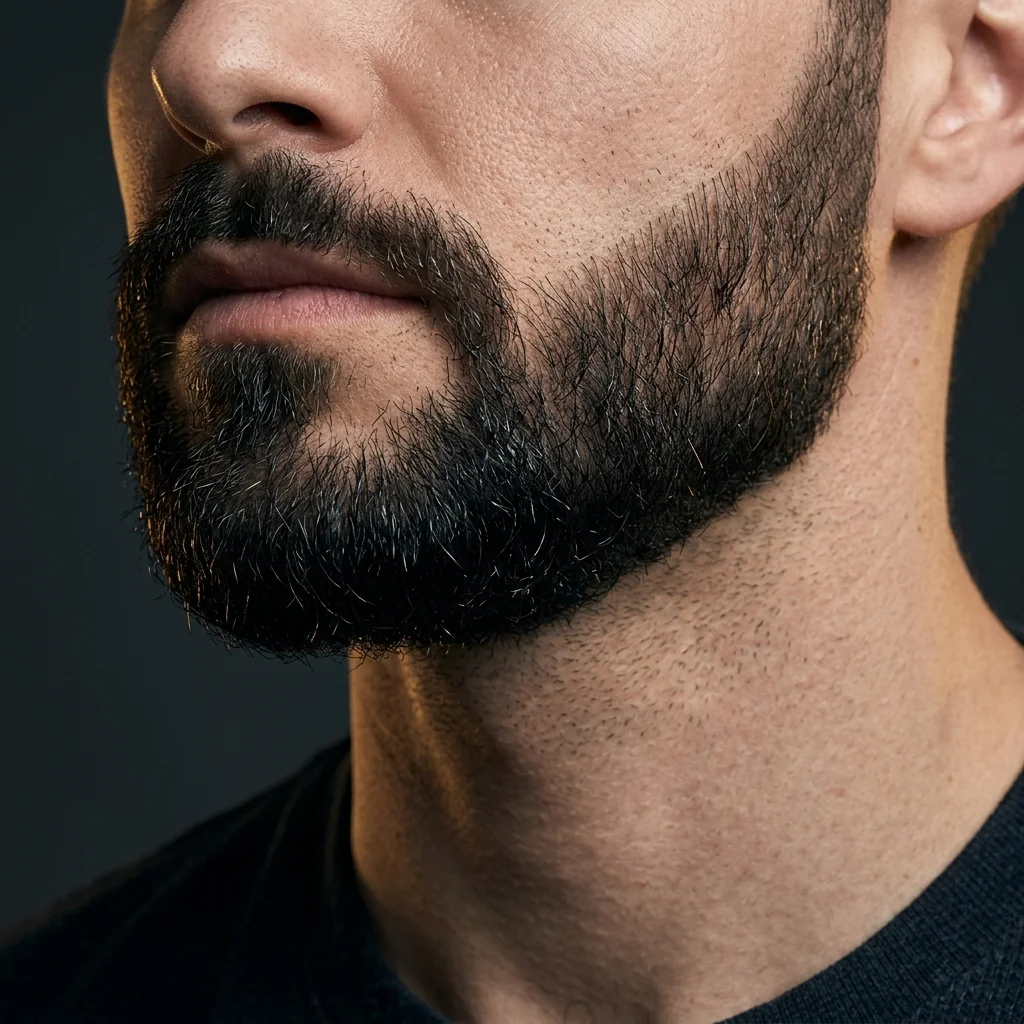
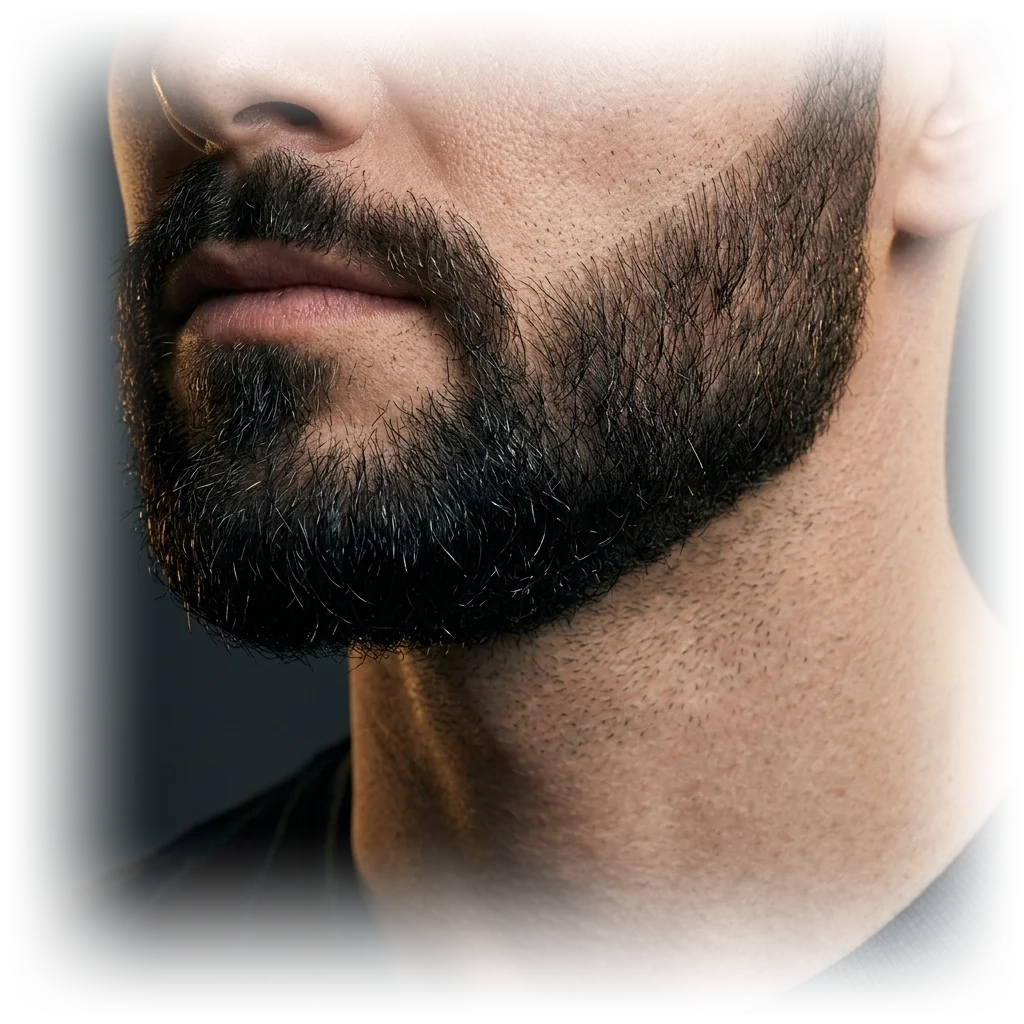
feat: add ultra-HD cutout images across all designated section gaps and feather all catalog image edges

diff --git a/scripts/capture_new_gaps.js b/scripts/capture_new_gaps.js
@@ -1,0 +1,68 @@
+const puppeteer = require('puppeteer-core');
+const fs = require('fs');
+const path = require('path');
+
+const EDGE_PATH = 'C:\\Program Files (x86)\\Microsoft\\Edge\\Application\\msedge.exe';
+
+async function captureGaps() {
+  const screenshotsDir = path.join(__dirname, '..', 'screenshots');
+  if (!fs.existsSync(screenshotsDir)) {
+    fs.mkdirSync(screenshotsDir, { recursive: true });
+  }
+
+  const browser = await puppeteer.launch({
+    executablePath: EDGE_PATH,
+    headless: true,
+    args: ['--no-sandbox', '--disable-setuid-sandbox']
+  });
+
+  // Mobile viewport (matching user's phone screenshot)
+  const page = await browser.newPage();
+  await page.setViewport({ width: 390, height: 844, deviceScaleFactor: 2, isMobile: true });
+  await page.goto('http://localhost:3000', { waitUntil: 'networkidle0' });
+  await new Promise(r => setTimeout(r, 1500));
+
+  // 1. Capture Hero Section (showing the quiff cutout below the strap and above stats)
+  const heroEl = await page.$('#hero');
+  if (heroEl) {
+    await page.evaluate(() => window.scrollTo(0, 500));
+    await new Promise(r => setTimeout(r, 600));
+    await page.screenshot({ path: path.join(screenshotsDir, 'gap_hero_strap_mobile.png') });
+    console.log('Captured gap_hero_strap_mobile.png');
+  }
+
+  // 2. Capture Services Section category feature image
+  const servicesEl = await page.$('#services');
+  if (servicesEl) {
+    await page.evaluate(el => el.scrollIntoView({ behavior: 'instant', block: 'center' }), servicesEl);
+    await new Promise(r => setTimeout(r, 600));
+    await page.screenshot({ path: path.join(screenshotsDir, 'gap_services_blurred_mobile.png') });
+    console.log('Captured gap_services_blurred_mobile.png');
+  }
+
+  // 3. Capture Precision Section
+  const precisionEl = await page.$('#precision');
+  if (precisionEl) {
+    await page.evaluate(el => el.scrollIntoView({ behavior: 'instant', block: 'center' }), precisionEl);
+    await new Promise(r => setTimeout(r, 600));
+    await page.screenshot({ path: path.join(screenshotsDir, 'gap_precision_mobile.png') });
+    console.log('Captured gap_precision_mobile.png');
+  }
+
+  // 4. Capture Team Section
+  const teamEl = await page.$('#barbers');
+  if (teamEl) {
+    await page.evaluate(el => el.scrollIntoView({ behavior: 'instant', block: 'center' }), teamEl);
+    await new Promise(r => setTimeout(r, 600));
+    await page.screenshot({ path: path.join(screenshotsDir, 'gap_team_mobile.png') });
+    console.log('Captured gap_team_mobile.png');
+  }
+
+  await browser.close();
+  console.log('Done capturing gaps!');
+}
+
+captureGaps().catch(err => {
+  console.error(err);
+  process.exit(1);
+});

diff --git a/src/components/ui/CutoutFeatureBand.tsx b/src/components/ui/CutoutFeatureBand.tsx
@@ -1,0 +1,69 @@
+"use client";
+
+import Image from "next/image";
+import { AnimatedReveal } from "@/components/ui/AnimatedReveal";
+
+interface CutoutFeatureBandProps {
+  image: string;
+  alt: string;
+  tag?: string;
+  title?: string;
+  subtitle?: string;
+  maxHeight?: string;
+  className?: string;
+}
+
+export function CutoutFeatureBand({
+  image,
+  alt,
+  tag = "PRECISION CRAFT",
+  title,
+  subtitle,
+  maxHeight = "h-[260px] sm:h-[340px] lg:h-[440px]",
+  className = "",
+}: CutoutFeatureBandProps) {
+  return (
+    <AnimatedReveal
+      direction="up"
+      delay={0.05}
+      amount={0.05}
+      className={`w-full flex flex-col items-center justify-center my-4 sm:my-8 relative select-none ${className}`}
+    >
+      {/* Soft golden ambient glow behind the cutout */}
+      <div className="absolute top-1/2 left-1/2 -translate-x-1/2 -translate-y-1/2 w-[340px] sm:w-[500px] h-[220px] sm:h-[320px] bg-[#C59B46]/8 rounded-full blur-[90px] pointer-events-none" />
+
+      {/* Seamless cutout container with zero box borders */}
+      <div
+        className={`relative w-full max-w-[340px] sm:max-w-[440px] lg:max-w-[520px] mx-auto ${maxHeight} group flex flex-col justify-end items-center`}
+      >
+        <Image
+          src={image}
+          alt={alt}
+          fill
+          sizes="(max-width: 640px) 92vw, (max-width: 1024px) 440px, 520px"
+          className="object-contain object-bottom group-hover:scale-105 transition-transform duration-700 ease-out"
+          style={{
+            WebkitMaskImage:
+              "radial-gradient(ellipse 85% 85% at 50% 50%, black 50%, transparent 100%)",
+            maskImage:
+              "radial-gradient(ellipse 85% 85% at 50% 50%, black 50%, transparent 100%)",
+          }}
+        />
+
+        {/* Floating Minimalist Editorial Caption */}
+        {(tag || title) && (
+          <div className="relative z-10 mx-auto mb-2 px-4 py-2 rounded-full bg-[#0E1411]/85 backdrop-blur-md border border-[#C59B46]/30 text-center shadow-2xl">
+            <span className="text-[10px] sm:text-[11px] font-mono tracking-widest uppercase text-[#C59B46] font-bold">
+              ✦ {tag}
+            </span>
+            {title && (
+              <span className="text-xs sm:text-sm text-[#F5EFEB] font-['Playfair_Display',Georgia,serif] ml-2">
+                • {title}
+              </span>
+            )}
+          </div>
+        )}
+      </div>
+    </AnimatedReveal>
+  );
+}

diff --git a/src/components/sections/ServicesSection.tsx b/src/components/sections/ServicesSection.tsx
@@ -5,6 +5,7 @@ import Image from "next/image";
 import { serviceCategories, ServiceCategoryKey } from "@/data/services";
 import { SectionHeading } from "@/components/ui/SectionHeading";
 import { AnimatedReveal } from "@/components/ui/AnimatedReveal";
+import { CutoutFeatureBand } from "@/components/ui/CutoutFeatureBand";
 import { WhatsAppIcon } from "@/components/ui/Icons";
 import { buildServiceInquiryWhatsAppUrl } from "@/lib/whatsapp";
 import { ArrowUpRight, ArrowRight } from "lucide-react";
@@ -186,10 +187,10 @@ export function ServicesSection() {
           {/* Left Column: Category Feature Photo Card (Smooth blurred edges, no card border) */}
           <AnimatedReveal direction="left" delay={0.15} amount={0.05} className="lg:col-span-5 relative z-10">
             <div
-              className="relative rounded-2xl overflow-hidden bg-[#121815] shadow-2xl w-full h-[260px] sm:h-[340px] lg:h-[560px]"
+              className="relative overflow-hidden w-full h-[260px] sm:h-[340px] lg:h-[560px] flex items-center justify-center select-none"
               style={{
-                WebkitMaskImage: 'radial-gradient(ellipse 92% 92% at 50% 50%, black 65%, transparent 100%)',
-                maskImage: 'radial-gradient(ellipse 92% 92% at 50% 50%, black 65%, transparent 100%)'
+                WebkitMaskImage: 'radial-gradient(ellipse 80% 80% at 50% 50%, black 35%, transparent 92%)',
+                maskImage: 'radial-gradient(ellipse 80% 80% at 50% 50%, black 35%, transparent 92%)'
               }}
             >
               <Image
@@ -266,6 +267,15 @@ export function ServicesSection() {
         <p className="mt-8 text-center text-xs text-[#7A756B]">
           Message us on WhatsApp for pricing and availability.
         </p>
+
+        {/* Editorial Feature Cutout (matching user screenshot 10) */}
+        <CutoutFeatureBand
+          image="/images/cutout-styling-arched.webp"
+          alt="Master salon styling and hair treatment at R.B Makeover"
+          tag="FULL MENU DISCIPLINE"
+          title="Bespoke Grooming & Skincare"
+          maxHeight="h-[240px] sm:h-[320px] lg:h-[400px]"
+        />
 
       </div>
     </section>

diff --git a/src/app/page.tsx b/src/app/page.tsx
@@ -18,6 +18,7 @@ import { LocationSection } from "@/components/sections/LocationSection";
 import { ContactSection } from "@/components/sections/ContactSection";
 import { MarqueeTicker } from "@/components/ui/MarqueeTicker";
 import { ServiceSpotlightBand } from "@/components/ui/ServiceSpotlightBand";
+import { CutoutFeatureBand } from "@/components/ui/CutoutFeatureBand";
 import { AnimatedReveal } from "@/components/ui/AnimatedReveal";
 import { serviceSpotlights } from "@/data/serviceSpotlights";
 
@@ -54,6 +55,15 @@ export default function Home() {
             ]}
           />
         </AnimatedReveal>
+
+        {/* Editorial Feature Cutout between Ticker and Spotlight (matching user screenshot 12) */}
+        <CutoutFeatureBand
+          image="/images/cutout-combover-razor.webp"
+          alt="Executive comb-over fade and razor part line at R.B Makeover"
+          tag="EXECUTIVE COMB-OVER"
+          title="Razor Part Discipline"
+          maxHeight="h-[240px] sm:h-[320px] lg:h-[420px]"
+        />
 
         {/* Service Spotlight 1: Modern Textured European Crop */}
         <ServiceSpotlightBand {...serviceSpotlights.executiveCrop} />

diff --git a/src/components/sections/TeamSection.tsx b/src/components/sections/TeamSection.tsx
@@ -4,6 +4,7 @@ import React, { useState } from "react";
 import { staffBarbers, BarberStaff } from "@/data/team";
 import { SectionHeading } from "@/components/ui/SectionHeading";
 import { AnimatedReveal } from "@/components/ui/AnimatedReveal";
+import { CutoutFeatureBand } from "@/components/ui/CutoutFeatureBand";
 import { WhatsAppIcon } from "@/components/ui/Icons";
 import { buildBarberBookingWhatsAppUrl } from "@/lib/whatsapp";
 import {
@@ -310,6 +311,15 @@ export function TeamSection({
           );
           })}
         </div>
+
+        {/* Editorial Feature Cutout (matching user screenshot 8) */}
+        <CutoutFeatureBand
+          image="/images/cutout-mature-classic.webp"
+          alt="Distinguished mature gentleman with classic scissor cut and beard grooming at R.B Makeover"
+          tag="HERITAGE SCISSOR WORK"
+          title="14+ Years Craftsmanship"
+          maxHeight="h-[240px] sm:h-[320px] lg:h-[400px]"
+        />
 
         {/* Bottom Note */}
         <div className="mt-10 p-4 rounded-xl bg-white/[0.02] border border-white/[0.06] flex items-center justify-center gap-3 text-center text-xs text-[#A8A193]">

diff --git a/src/components/sections/HeroSection.tsx b/src/components/sections/HeroSection.tsx
@@ -6,6 +6,7 @@ import { siteConfig } from "@/data/siteConfig";
 import { Button } from "@/components/ui/Button";
 import { WhatsAppIcon, FacebookIcon } from "@/components/ui/Icons";
 import { AnimatedReveal } from "@/components/ui/AnimatedReveal";
+import { CutoutFeatureBand } from "@/components/ui/CutoutFeatureBand";
 import {
   Star,
   MapPin,
@@ -205,6 +206,15 @@ export function HeroSection() {
               </span>
             </div>
         </div>
+
+        {/* Editorial Feature Cutout below Hero Strap (matching user screenshot 4) */}
+        <CutoutFeatureBand
+          image="/images/cutout-quiff-taper.webp"
+          alt="Modern textured quiff and skin taper fade at R.B Makeover"
+          tag="SIGNATURE QUIFF"
+          title="Precision Skin Taper"
+          maxHeight="h-[240px] sm:h-[320px] lg:h-[400px]"
+        />
 
         {/* ============================================================ */}
         {/* STAT STRIP (Connecting the two editorial hero showcases)       */}

diff --git a/src/components/sections/PrecisionSection.tsx b/src/components/sections/PrecisionSection.tsx
@@ -5,6 +5,7 @@ import Image from "next/image";
 import { SectionHeading } from "@/components/ui/SectionHeading";
 import { Button } from "@/components/ui/Button";
 import { AnimatedReveal } from "@/components/ui/AnimatedReveal";
+import { CutoutFeatureBand } from "@/components/ui/CutoutFeatureBand";
 import {
   Scissors,
   Sparkles,
@@ -193,6 +194,15 @@ export function PrecisionSection() {
           </AnimatedReveal>
 
         </div>
+
+        {/* Editorial Feature Cutout above Menu Button (matching user screenshot 5 & 11) */}
+        <CutoutFeatureBand
+          image="/images/cutout-razor-dropfade.webp"
+          alt="Precision razor line-up and skin drop fade at R.B Makeover"
+          tag="DROP FADE & LINE-UP"
+          title="Jawline Symmetry"
+          maxHeight="h-[240px] sm:h-[320px] lg:h-[400px]"
+        />
 
         {/* Action Button underneath */}
         <AnimatedReveal direction="up" delay={0.25} amount={0.05} className="mt-8 sm:mt-12 text-center">

diff --git a/src/components/sections/AboutSection.tsx b/src/components/sections/AboutSection.tsx
@@ -3,6 +3,7 @@ import Image from "next/image";
 import { SectionHeading } from "@/components/ui/SectionHeading";
 import { Button } from "@/components/ui/Button";
 import { AnimatedReveal } from "@/components/ui/AnimatedReveal";
+import { CutoutFeatureBand } from "@/components/ui/CutoutFeatureBand";
 import { ArrowRight, UserCheck, Star, Clock, MapPin, Sparkles } from "lucide-react";
 
 export function AboutSection() {
@@ -157,6 +158,16 @@ export function AboutSection() {
           </AnimatedReveal>
 
         </div>
+
+        {/* Editorial Feature Cutout (matching user screenshot 9) */}
+        <CutoutFeatureBand
+          image="/images/cutout-vip-grooming.webp"
+          alt="VIP Grooming experience and gentleman styling at R.B Makeover"
+          tag="PARK VIEW CITY SANCTUARY"
+          title="Bespoke Gentleman Lounge"
+          maxHeight="h-[240px] sm:h-[320px] lg:h-[400px]"
+        />
+
       </div>
     </section>
   );

diff --git a/src/components/sections/TestimonialsSection.tsx b/src/components/sections/TestimonialsSection.tsx
@@ -5,6 +5,7 @@ import Image from "next/image";
 import { reviews, reviewsSummary } from "@/data/reviews";
 import { SectionHeading } from "@/components/ui/SectionHeading";
 import { AnimatedReveal } from "@/components/ui/AnimatedReveal";
+import { CutoutFeatureBand } from "@/components/ui/CutoutFeatureBand";
 import { Star, ShieldCheck } from "lucide-react";
 import { GoogleGIcon } from "@/components/ui/Icons";
 
@@ -203,6 +204,15 @@ export function TestimonialsSection() {
             </div>
           ))}
         </div>
+
+        {/* Editorial Feature Cutout (matching user screenshot 7) */}
+        <CutoutFeatureBand
+          image="/images/cutout-curly-taper.webp"
+          alt="Modern curly textured crop and skin fade at R.B Makeover"
+          tag="CLIENT APPROVED"
+          title="Modern Curly Crop"
+          maxHeight="h-[240px] sm:h-[320px] lg:h-[400px]"
+        />
 
       </div>
     </section>

diff --git a/src/components/sections/WhyChooseUsSection.tsx b/src/components/sections/WhyChooseUsSection.tsx
@@ -4,6 +4,7 @@ import React from "react";
 import Image from "next/image";
 import { SectionHeading } from "@/components/ui/SectionHeading";
 import { AnimatedReveal } from "@/components/ui/AnimatedReveal";
+import { CutoutFeatureBand } from "@/components/ui/CutoutFeatureBand";
 import { Sparkles, Scissors } from "lucide-react";
 
 interface WhyChooseItem {
@@ -100,6 +101,15 @@ export function WhyChooseUsSection() {
             </AnimatedReveal>
           ))}
         </div>
+
+        {/* Editorial Feature Cutout (matching user screenshot 6) */}
+        <CutoutFeatureBand
+          image="/images/cutout-pompadour-sculpt.webp"
+          alt="Bespoke beard sculpting and pompadour hairstyle at R.B Makeover"
+          tag="ROYAL SCULPT"
+          title="Park View City Standard"
+          maxHeight="h-[240px] sm:h-[320px] lg:h-[400px]"
+        />
 
       </div>
     </section>
